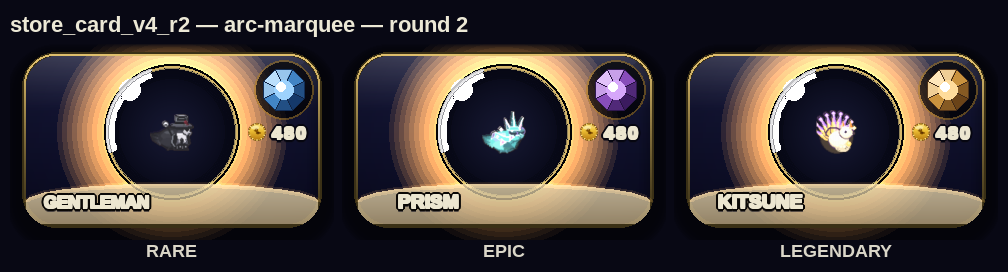
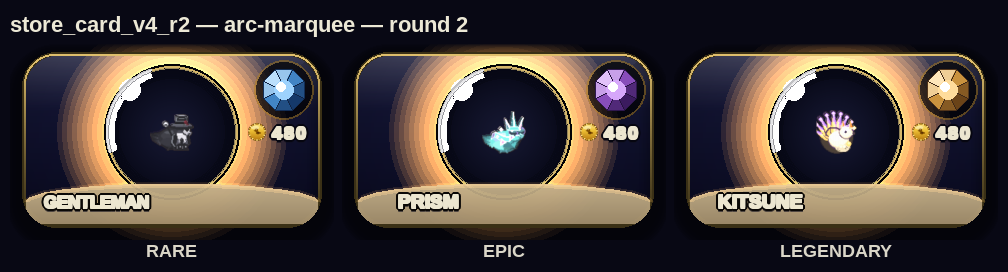
docs: store_card_v4_r2 arc-marquee + light-rule r2 final versions
Claude-Session: https://claude.ai/code/session_011726ot8uBSmurQVaEkGY6K

diff --git a/tools/_store_card_v4_r2_light_rule_r2.py b/tools/_store_card_v4_r2_light_rule_r2.py
@@ -109,23 +109,43 @@ def _luminous_rule(surf, x0, x1, y, bright, core_x1=None, ramp=True):
     drawing the eye to the price without hardening into a border."""
     if core_x1 is None:
         core_x1 = x1
+    w_surf = surf.get_size()[0]
+    floor = 0.5                                    # left end stays a complete line
+
+    def _f(px):
+        # brightness ramp: floor at the left terminus -> full at the capped
+        # (price) end, then HOLD full past core_x1 so the bloom continues at
+        # strength behind the capsule that caps the rule.
+        if not ramp:
+            return 1.0
+        if px >= core_x1:
+            return 1.0
+        t = max(0.0, (px - x0) / max(1, core_x1 - x0))
+        return floor + (1.0 - floor) * t
+
+    # bloom, ramped by a horizontal alpha gradient so the emission brightens
+    # toward the price without ever hardening into a border.
     bloom = pygame.Surface(surf.get_size(), pygame.SRCALPHA)
     for w, a in [(m(9), 16), (m(6), 28), (m(3.5), 52), (m(2), 92)]:
         pygame.draw.line(bloom, (*bright, a), (x0, y), (x1, y), max(1, int(w)))
+    grad = pygame.Surface(surf.get_size(), pygame.SRCALPHA)
+    for px in range(x0, x1 + 1):
+        a = int(255 * _f(px))
+        pygame.draw.line(grad, (255, 255, 255, a), (px, y - m(6)), (px, y + m(6)))
+    bloom.blit(grad, (0, 0), special_flags=pygame.BLEND_RGBA_MULT)
     surf.blit(bloom, (0, 0), special_flags=pygame.BLEND_ADD)
     # soft round cap on the LEFT terminus so the emission fades out there; the
     # right terminus is capped by the price capsule instead, so no cap there.
-    soft_glow(surf, x0, y, m(5), bright, 26, layers=7)
+    soft_glow(surf, x0, y, m(5), bright, int(26 * floor), layers=7)
     # crisp core: bright ring-gold thread + hotter cream filament, drawn as short
-    # segments so the value can ramp up toward the price end.
+    # segments carrying the same ramp so the value climbs toward the price end.
     cream = (250, 244, 224)
     span = max(1, core_x1 - x0)
     seg_n = 56
     for i in range(seg_n):
         sx = x0 + span * i // seg_n
         ex = x0 + span * (i + 1) // seg_n
-        t = i / (seg_n - 1)                        # 0 (left) .. 1 (price end)
-        f = (0.42 + 0.58 * t) if ramp else 1.0     # gentle: ~42% left -> full
+        f = _f((sx + ex) // 2)
         pygame.draw.line(surf, (*bright, int(255 * f)), (sx, y), (ex, y),
                          max(1, m(1.4)))
         pygame.draw.line(surf, (*cream, int(255 * f)), (sx, y), (ex, y),

diff --git a/tools/_store_card_v4_r2_arc_marquee_r2.py b/tools/_store_card_v4_r2_arc_marquee_r2.py
@@ -181,7 +181,7 @@ def _arc_band(big, rect, rad):
     band_bottom_local = rect.h - inset             # flush at the card floor
     band_top_local = band_bottom_local - apex_h
 
-    cream = vgrad_stops(bw, apex_h, 0, BAND_STOPS, alpha=210)
+    cream = vgrad_stops(bw, apex_h, 0, BAND_STOPS, alpha=BAND_ALPHA)
     # clip the strip to the ellipse: fill everything BELOW the elliptical top
     # edge with a filled polygon (curve sampled dense so the downscale reads
     # smooth), which keeps only the pooled-ellipse footprint.
